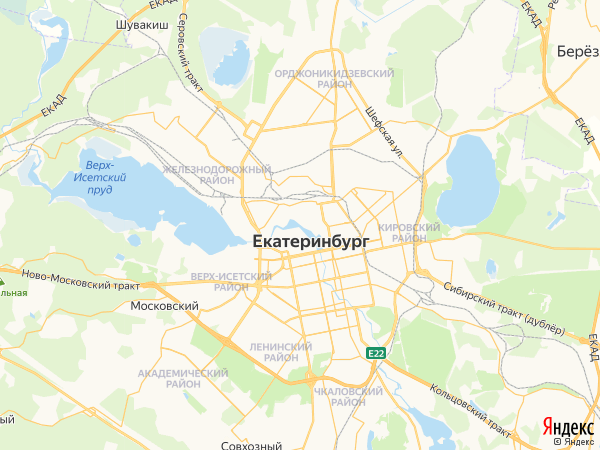
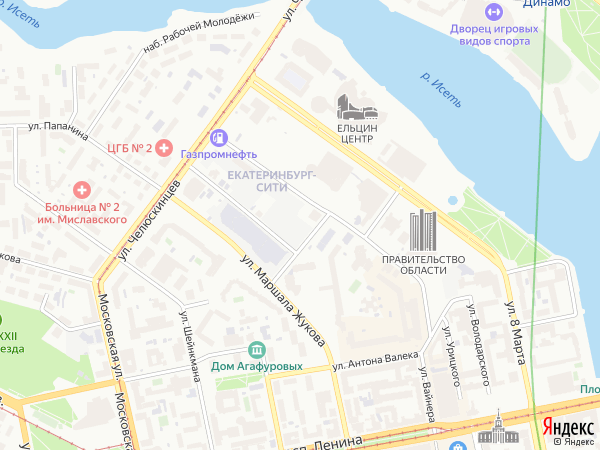
exe 3

diff --git a/main.py b/main.py
@@ -14,17 +14,36 @@ class MyWidget(QMainWindow):
         self.button_find.clicked.connect(self.find)
         self.edit_longitude.setText('60.58985462732907')
         self.edit_latitude.setText('56.84822763650701')
+        self.lt_cent = self.edit_latitude.text()
+        self.ln_cent = self.edit_longitude.text()
+        self.find()
 
         def keys_listener(e):
             if e.name == 'page up' and e.event_type == 'up':
                 self.chande_value(1)
             elif e.name == 'page down' and e.event_type == 'up':
                 self.chande_value(2)
+            elif e.name == 'up' and e.event_type == 'up':
+                if float(self.lt_cent) - 0.001 <= 90 and float(self.lt_cent) - 0.001 >= -90:
+                    self.lt_cent = str(float(self.lt_cent) + 0.001)
+                self.find(True)
+            elif e.name == 'down' and e.event_type == 'up':
+                if float(self.lt_cent) - 0.001 <= 90 and float(self.lt_cent) - 0.001 >= -90:
+                    self.lt_cent = str(float(self.lt_cent) - 0.001)
+                self.find(True)
+            elif e.name == 'right' and e.event_type == 'up':
+                if float(self.ln_cent) - 0.001 <= 180 and float(self.ln_cent) - 0.001 >= -180:
+                    self.ln_cent = str(float(self.ln_cent) + 0.001)
+                self.find(True)
+            elif e.name == 'left' and e.event_type == 'up':
+                if float(self.ln_cent) - 0.001 <= 180 and float(self.ln_cent) - 0.001 >= -180:
+                    self.ln_cent = str(float(self.ln_cent) - 0.001)
+                self.find(True)
 
         keyboard.hook(keys_listener)
 
-    def find(self):
-        self.requests_api()
+    def find(self, press=False):
+        self.requests_api(press)
         map_photo = QPixmap(self.map_pic)
         map_photo = map_photo.scaled(1051, 751)
         self.map_lable.setPixmap(map_photo)
@@ -36,15 +55,19 @@ class MyWidget(QMainWindow):
             self.scale_spin_box.setValue(self.scale_spin_box.value() - 0.01)
         self.find()
 
-    def requests_api(self):
+    def requests_api(self, press):
         lat = self.edit_latitude.text()
         lon = self.edit_longitude.text()
+        if press is False:
+            self.lt_cent = self.edit_latitude.text()
+            self.ln_cent = self.edit_longitude.text()
         scale = str(self.scale_spin_box.value())
         api_server = "http://static-maps.yandex.ru/1.x/"
 
         params = {
             "apikey": "40d1649f-0493-4b70-98ba-98533de7710b",
-            "ll": ",".join([lon, lat]),
+            "sll": ",".join([lon, lat]),
+            "ll": ",".join([self.ln_cent, self.lt_cent]),
             "spn": ",".join([scale, scale]),
             "l": "map"
         }
